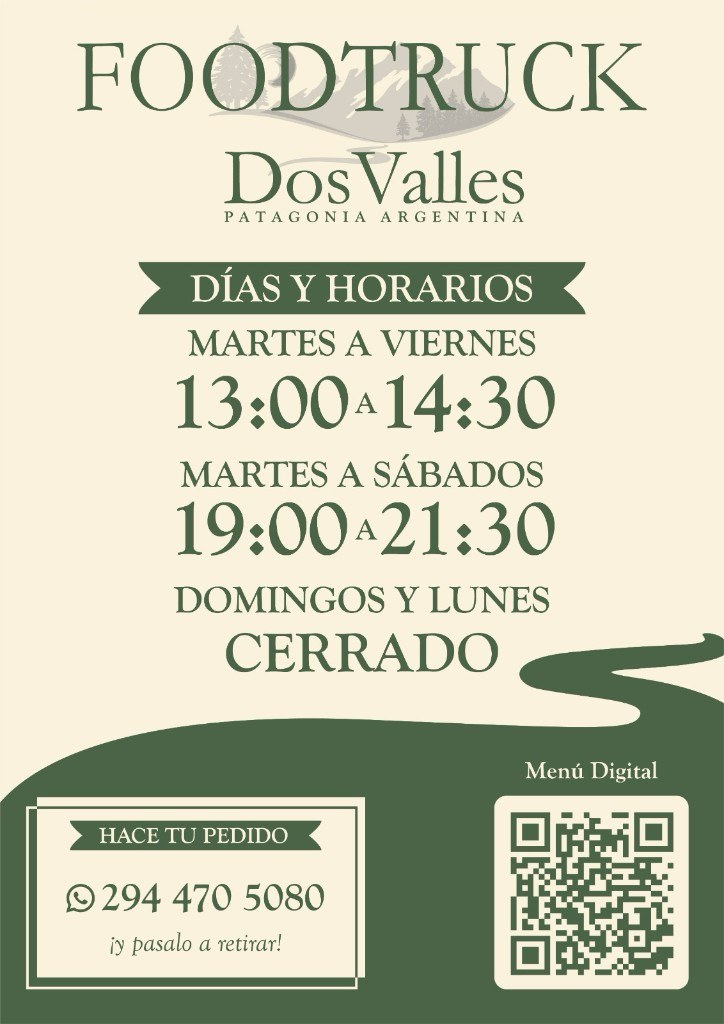
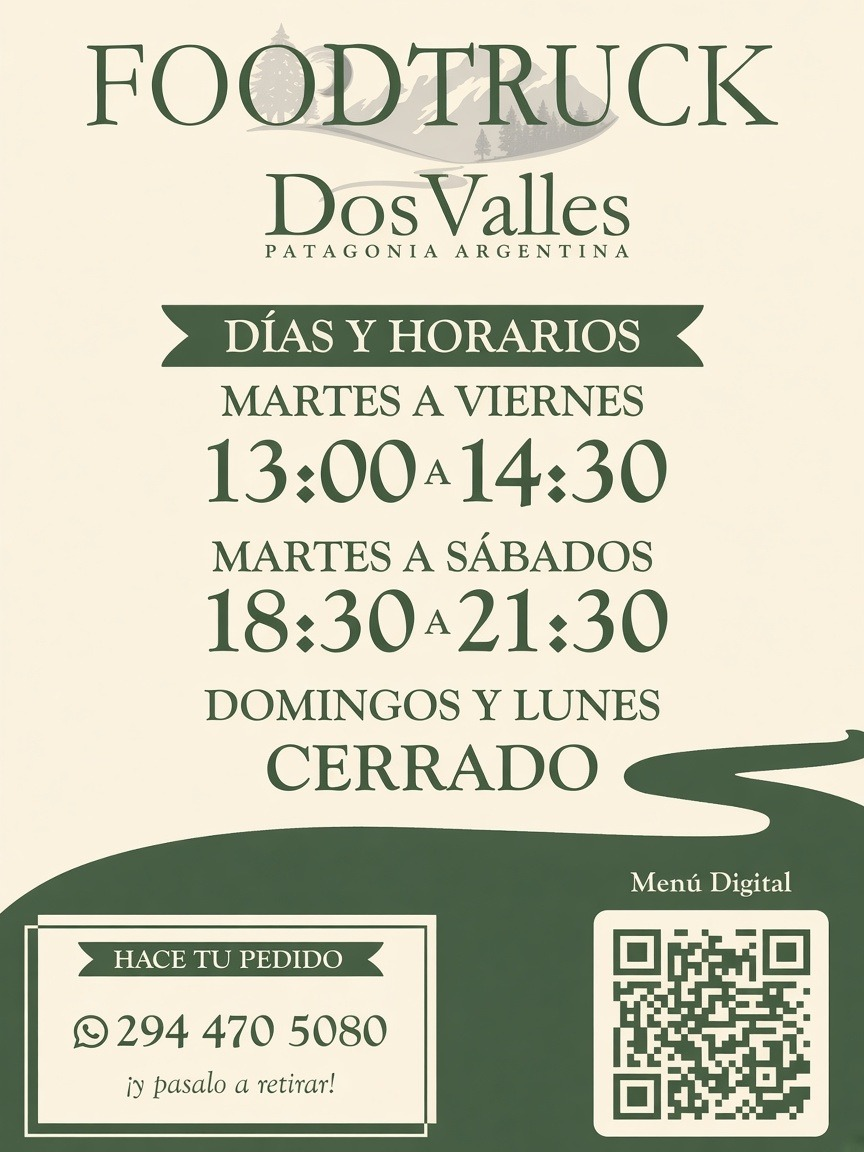
Tips: Belek hours 18:30–21:30

Changed region(s): [[0.0, 0.25, 1.0, 1.0], [0.0912, 0.0312, 0.8812, 0.2188]]

diff --git a/tips-de-anfitrion.html b/tips-de-anfitrion.html
@@ -172,9 +172,9 @@
               <figure class="tips-howto-fig tips-howto-fig--solo">
                 <img
                   src="images/tips/belek-horarios.jpg"
-                  alt="Horarios del food truck Dos Valles: mar–vie 13:00–14:40, mar–sáb 19:00–21:30, dom y lun cerrado"
-                  width="724"
-                  height="1024"
+                  alt="Horarios del food truck Dos Valles: mar–vie 13:00–14:30, mar–sáb 18:30–21:30, dom y lun cerrado"
+                  width="864"
+                  height="1152"
                   loading="lazy"
                 >
               </figure>

diff --git a/tuestadia.html b/tuestadia.html
@@ -172,9 +172,9 @@
               <figure class="tips-howto-fig tips-howto-fig--solo">
                 <img
                   src="images/tips/belek-horarios.jpg"
-                  alt="Horarios del food truck Dos Valles: mar–vie 13:00–14:40, mar–sáb 19:00–21:30, dom y lun cerrado"
-                  width="724"
-                  height="1024"
+                  alt="Horarios del food truck Dos Valles: mar–vie 13:00–14:30, mar–sáb 18:30–21:30, dom y lun cerrado"
+                  width="864"
+                  height="1152"
                   loading="lazy"
                 >
               </figure>

diff --git a/en/tips-de-anfitrion.html b/en/tips-de-anfitrion.html
@@ -173,9 +173,9 @@
               <figure class="tips-howto-fig tips-howto-fig--solo">
                 <img
                   src="../images/tips/belek-horarios.jpg"
-                  alt="Dos Valles food truck hours: Tue–Fri 1:00–2:40 pm, Tue–Sat 7:00–9:30 pm, closed Sun–Mon"
-                  width="724"
-                  height="1024"
+                  alt="Dos Valles food truck hours: Tue–Fri 1:00–2:30 pm, Tue–Sat 6:30–9:30 pm, closed Sun–Mon"
+                  width="864"
+                  height="1152"
                   loading="lazy"
                 >
               </figure>

diff --git a/en/tuestadia.html b/en/tuestadia.html
@@ -172,9 +172,9 @@
               <figure class="tips-howto-fig tips-howto-fig--solo">
                 <img
                   src="../images/tips/belek-horarios.jpg"
-                  alt="Dos Valles food truck hours: Tue–Fri 1:00–2:40 pm, Tue–Sat 7:00–9:30 pm, closed Sun–Mon"
-                  width="724"
-                  height="1024"
+                  alt="Dos Valles food truck hours: Tue–Fri 1:00–2:30 pm, Tue–Sat 6:30–9:30 pm, closed Sun–Mon"
+                  width="864"
+                  height="1152"
                   loading="lazy"
                 >
               </figure>
